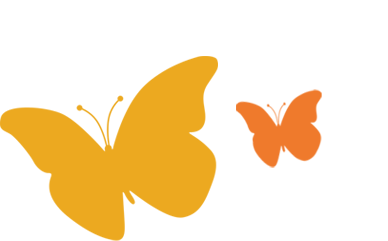
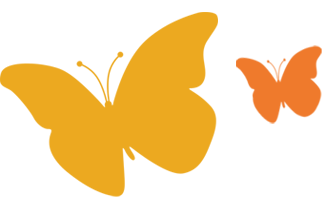
set butterfly bg

Changed region(s): [[0.0, 0.0609, 0.997, 1.0]]

diff --git a/client/style/themes/butterfly.css b/client/style/themes/butterfly.css
@@ -20,7 +20,7 @@ body{
 	background-image:url('../../assets/img/butterfly.png');
 	background-attachment: fixed;
 	background-repeat: no-repeat;
-	background-position: top right;
+	background-position: right 24%;
 }
 
 
